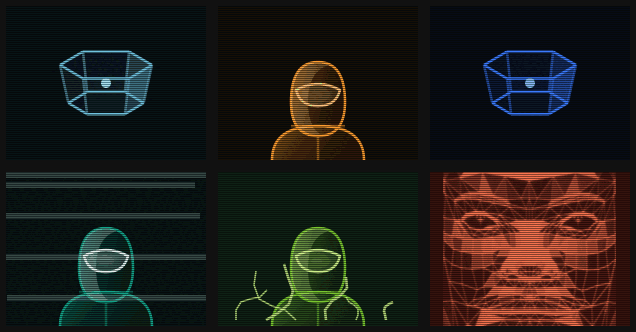
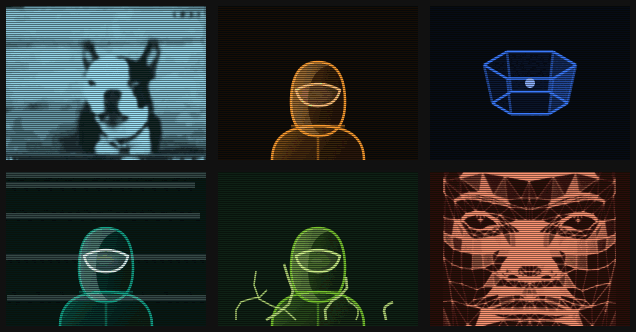
Marv is back on TRON Legacy, on the same screen as the rest
He had been the Boardroom's fallback portrait, shown only by a theme that
had none of its own — and since every theme gained one, nobody ever saw
him. Legacy ships him as portrait-source.gif now and gets him through the
same path the MCP uses: mapped onto the theme's ramp and interlaced.

Footage shot in daylight sits in a narrow band of greys, so a ramp laid
straight over it came out as fog. Both clips are pulled open and given
some snap in the middle first, which the drawn portraits never needed.
The fit-don't-fill rule the MCP needed moved into that shared path too,
so the next clip cannot lose its subject's chin the way his was.

Changed region(s): [[0.0, 0.0, 0.3286, 0.4819], [0.6871, 0.512, 0.9858, 0.994]]

diff --git a/tools/make-portrait.py b/tools/make-portrait.py
@@ -155,12 +155,21 @@ def shoot(theme, palette):
         subprocess.run(["rsvg-convert", "-w", str(W), "-h", str(H),
                         "-o", str(lines), str(tmp / "lines.svg")], check=True)
         subprocess.run([
-            "magick", str(src), "-coalesce", "-resize", f"{W}x{H}!",
+            "magick", str(src), "-coalesce",
+            # Fitted, not filled: a clip squarer than the window loses the
+            # bottom of the subject if it is made to fill, and two thin bars
+            # of ink cost less than a chin does.
+            "-resize", f"{W}x{H}", "-background", ink, "-gravity", "center",
+            "-extent", f"{W}x{H}",
             "-colorspace", "gray",
+            # Footage shot in daylight sits in a narrow band of greys, and a
+            # ramp laid straight over it comes out as fog. Pull it open first
+            # and put some snap in the middle.
+            "-auto-level", "-sigmoidal-contrast", "7,50%",
             # black to the theme's ink, white to its bright: the clip now
             # carries the theme's colour instead of its own.
             "+level-colors", f"{ink},{glow}",
-            "-fill", colour, "-colorize", "22",
+            "-fill", colour, "-colorize", "15",
             "null:", str(lines), "-layers", "composite",
             "-colorspace", "sRGB", "-type", "TrueColor", "-colors", "64",
             "-layers", "Optimize", str(out)], check=True)

diff --git a/README.md b/README.md
@@ -75,8 +75,9 @@ The same desktop comes in six colours. Everything above follows the one you pick
 ![The six themes](docs/six-themes.png)
 
 And the face on the comms window, which every theme has: drawn from code in that theme's own
-colour, lit from one side, with the picture interlaced and a band rolling down it. Dillinger's is
-the one piece of footage among them, put through the same ramp so it sits with the rest.
+colour, lit from one side, with the picture interlaced and a band rolling down it. Two are
+footage rather than drawings — Marv on TRON Legacy and the MCP on Dillinger — pulled open for
+contrast and put through the same ramp, so they sit on the same screen as the rest.
 
 ![The six portraits](docs/portraits.png)
 

diff --git a/CREDITS.md b/CREDITS.md
@@ -128,7 +128,7 @@ covered by this repository's MIT licence:
 
 | File | Clip |
 |---|---|
-| `boardroom/assets/alert-portrait.gif` | Marv, Sam Flynn's Boston terrier, from *Tron: Legacy* |
+| `theme/tron-legacy/portrait-source.gif`, `boardroom/assets/alert-portrait.gif` | Marv, Sam Flynn's Boston terrier, from *Tron: Legacy* |
 | `theme/dillinger-systems/portrait.gif` | The Master Control Program from *Tron* (1982) |
 
 The other themes' portraits are drawn from code by `tools/make-portrait.py` and are ours.
